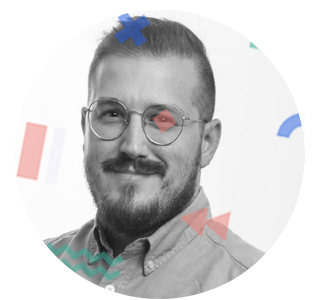
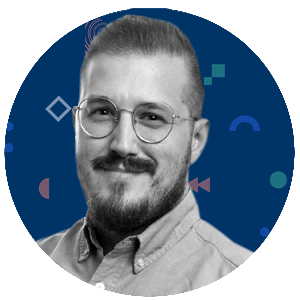
New team pictures, updated readme.

diff --git a/views/partial-projects.html b/views/partial-projects.html
@@ -66,6 +66,7 @@
                         ${data.map(rev => { return `
                         ${rev.is_complete == true && rev.is_approved == false  ? `
                         <button type="Submit" name="Project_id" value="${rev.id}" id="updateTodo" class="subtitle has-text-centered">${rev.name}</button>
+                        <p>${rev.project_description}</p>
                         ` : `
                         `}
                         ` }).join('')}
@@ -80,6 +81,7 @@
                         ${data.map(rev => { return `
                         ${rev.is_approved == true ? `
                         <button type="Submit" name="Project_id" value="${rev.id}" id="updateTodo" class="subtitle has-text-centered">${rev.name}</button></a>
+                        <p>${rev.project_description}</p>
                         ` : `
                         `}
                         ` }).join('')}

diff --git a/views/partial-login.html b/views/partial-login.html
@@ -26,7 +26,7 @@
                 <div class="level-item has-text-centered">
                     <div>
                     <a href="/users/signup">Create an Account</a><br>
-                    <a id="signGuest" href="#">Sign in as guest</a>
+                    <a id="signGuest" href="#">Sign in as Guest</a>
                     </div>
                 </div>
             </nav>

diff --git a/README.md b/README.md
@@ -1,29 +1,29 @@
-## Taskwork
-
-
+# Taskwork
 ## Description
-A user friendly project management tool, that utilizes a Kanban chart to track project performance and boost team efficiencies.
+A user-friendly project management tool that utilizes a Kanban chart to track project performance and boost team efficiency.
 
 ## Motivation
-The primary driver behind Taskwork is to deliver a project management tool with a relatively low barrier to entry. Taskwork is designed to be easy to navigate with special attention given to a fluid UI/UX experience. In addition, a completly responsive, mobile first design allows users to track projects on the go.
+The primary driver behind Taskwork is to deliver a project-management tool with a relatively low barrier to entry. Taskwork is designed to be easy to navigate with special attention given to a fluid UI/UX experience. In addition, a completly responsive, mobile-first design allows users to track projects on the go.
 
-## How to use?
-There are two primary pages two navigate Taskwork. At first, the project page is used to create projects, add descriptions, and track project status. Each project is linked to it's own task page, where users can add tasks, advance tasks through in progress, in testing and completed states. Once project tasks reach a completed state users can mark the project for review, and finally as completed once all project requirements have been met and approved.
-
+## How to use
+After logging in, users create projects on the Project Page where they can add descriptions and track the overall status of the project. Each project is linked to its own task page, where users can add tasks, advance tasks through different statuses of completion: To Do, In Progress, In Testing and Complete, from where users can move the projects to new states for another team to review the project. Once the In Review team is happy, the project can be moved to Complete once all project requirements have been met and approved.
 
 ## Challenges and Solutions
-
-
 ## Screenshots
-
 ## Features
-
-
-
 ## Installation
 
-## API Reference
-
-
 ## Credits
+**Project Manager and Design**
+Harmony Trevena
+[GitHub](https://github.com/harmonytrevena)
 
+**Backend Development**
+Luke Brazil
+[GitHub](https://github.com/LukeBrazil)
+Jai Gokhale
+[GitHub](https://github.com/jmg5219)
+
+**Frontend Development, Testing, UX**
+Kevin Jeffers
+[GitHub](https://github.com/jevinkeffers)
